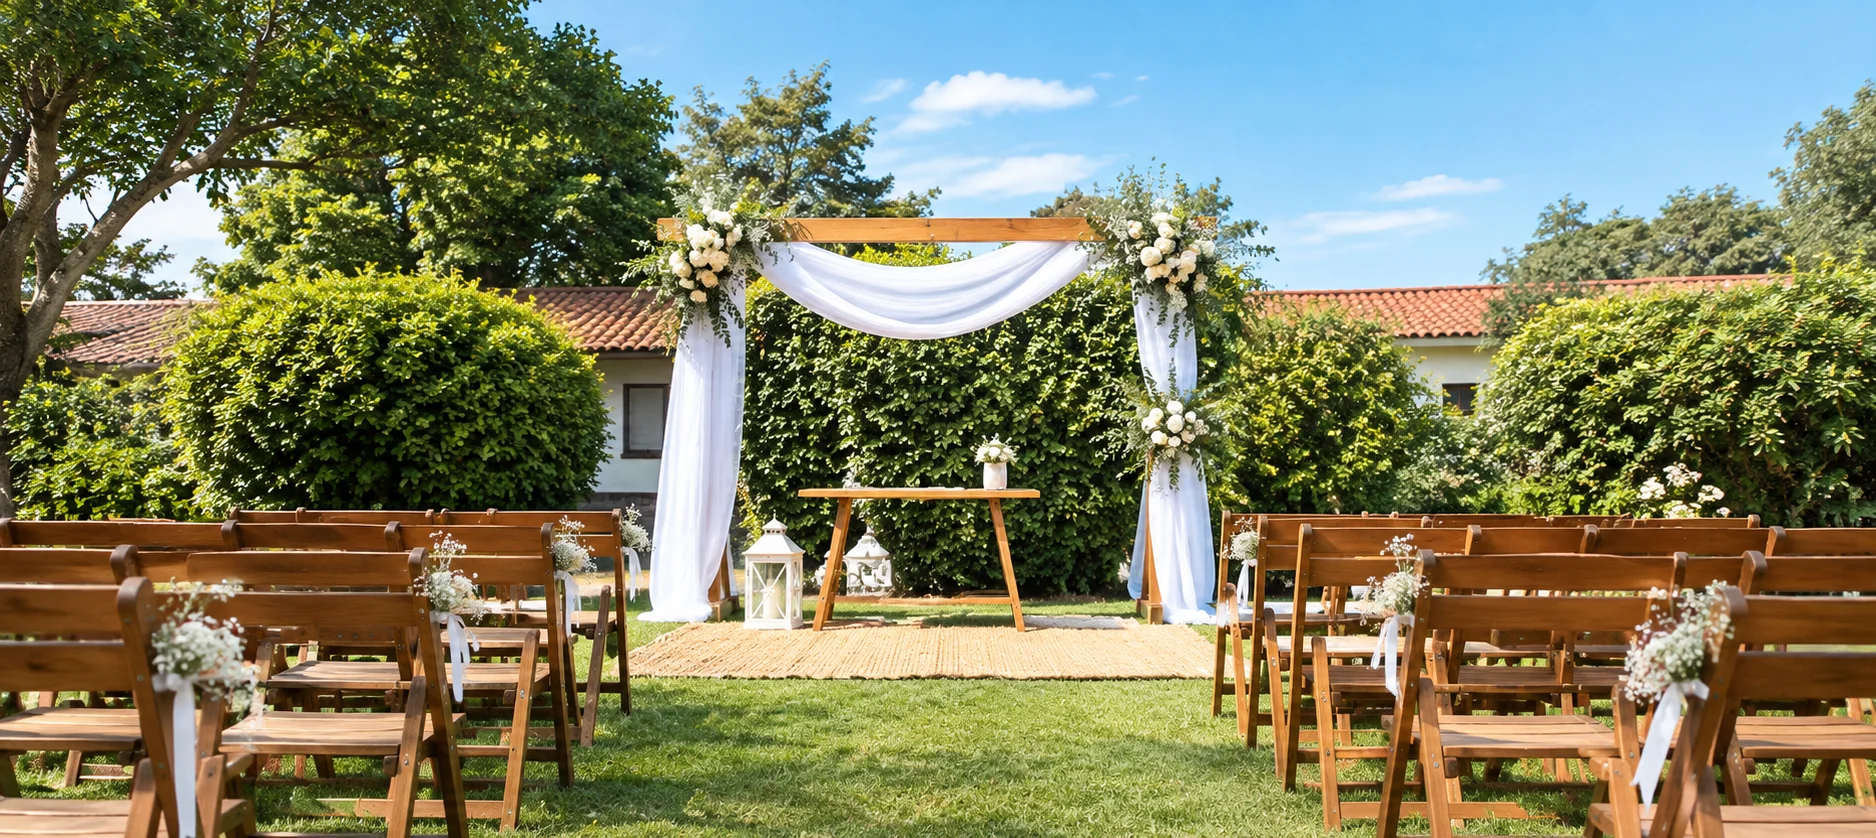
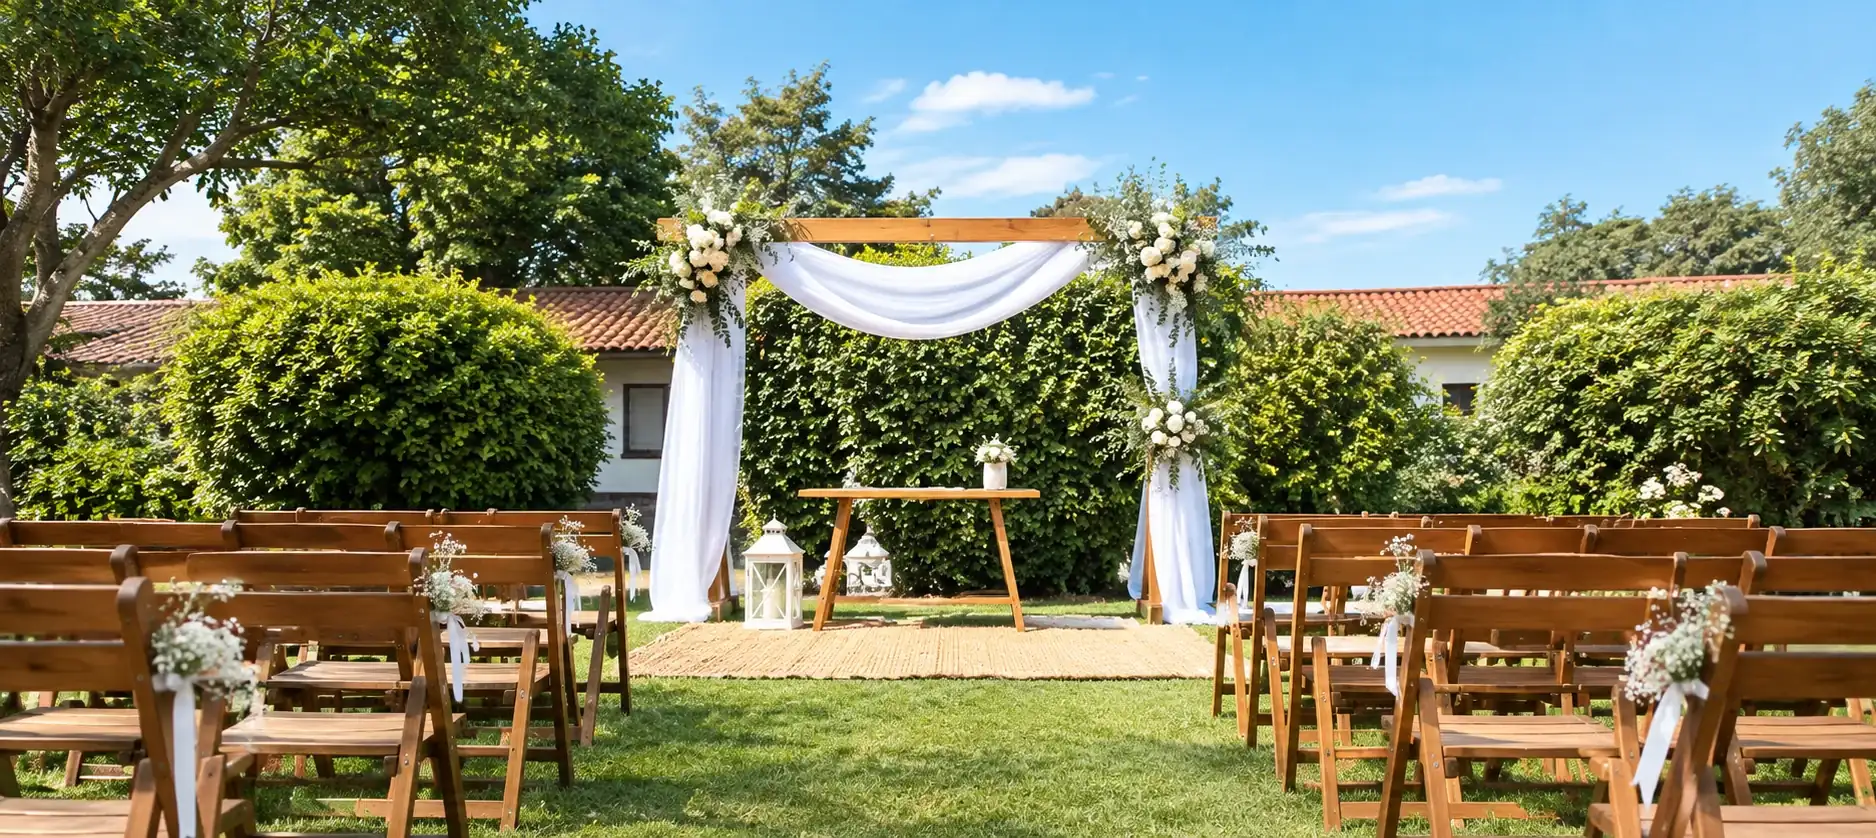
Add files via upload

diff --git a/nosotros/index.html b/nosotros/index.html
@@ -24,7 +24,8 @@
     <meta name="twitter:image" content="https://agencyaxiom1-boop.github.io/mardeyseventos/assets/img/og-image.jpg" />
     <link rel="canonical" href="https://mardeyseventos.com/nosotros/" />
     <link rel="preconnect" href="https://fonts.gstatic.com" crossorigin />
-    <link rel="preload" as="image" href="../assets/img/nosotros.webp" fetchpriority="high" />
+    <link rel="preload" as="image" href="../assets/img/nosotros-m.webp" media="(max-width: 600px)" fetchpriority="high" />
+    <link rel="preload" as="image" href="../assets/img/nosotros.webp" media="(min-width: 601px)" fetchpriority="high" />
     <link rel="preload" as="font" type="font/woff2" href="https://fonts.gstatic.com/s/cormorantgaramond/v21/co3bmX5slCNuHLi8bLeY9MK7whWMhyjYqXtK.woff2" crossorigin />
     <link rel="preload" as="font" type="font/woff2" href="https://fonts.gstatic.com/s/cormorantgaramond/v21/co3ZmX5slCNuHLi8bLeY9MK7whWMhyjYrEtImSo.woff2" crossorigin />
     <link rel="preload" as="font" type="font/woff2" href="https://fonts.gstatic.com/s/nunito/v32/XRXV3I6Li01BKofINeaB.woff2" crossorigin />
@@ -954,6 +955,14 @@ h2.hl span.plain {
 }
 .story p {
   color: #5a4a4e;
+}
+/* Celular: foto de portada recortada al centro (pesa mucho menos; en pantallas angostas solo se ve esa zona) */
+@media (max-width: 600px) {
+  .about-hero {
+    background:
+      url(../assets/img/nosotros-m.webp) center / cover no-repeat,
+      #7a4650;
+  }
 }
 </style>
   </head>
